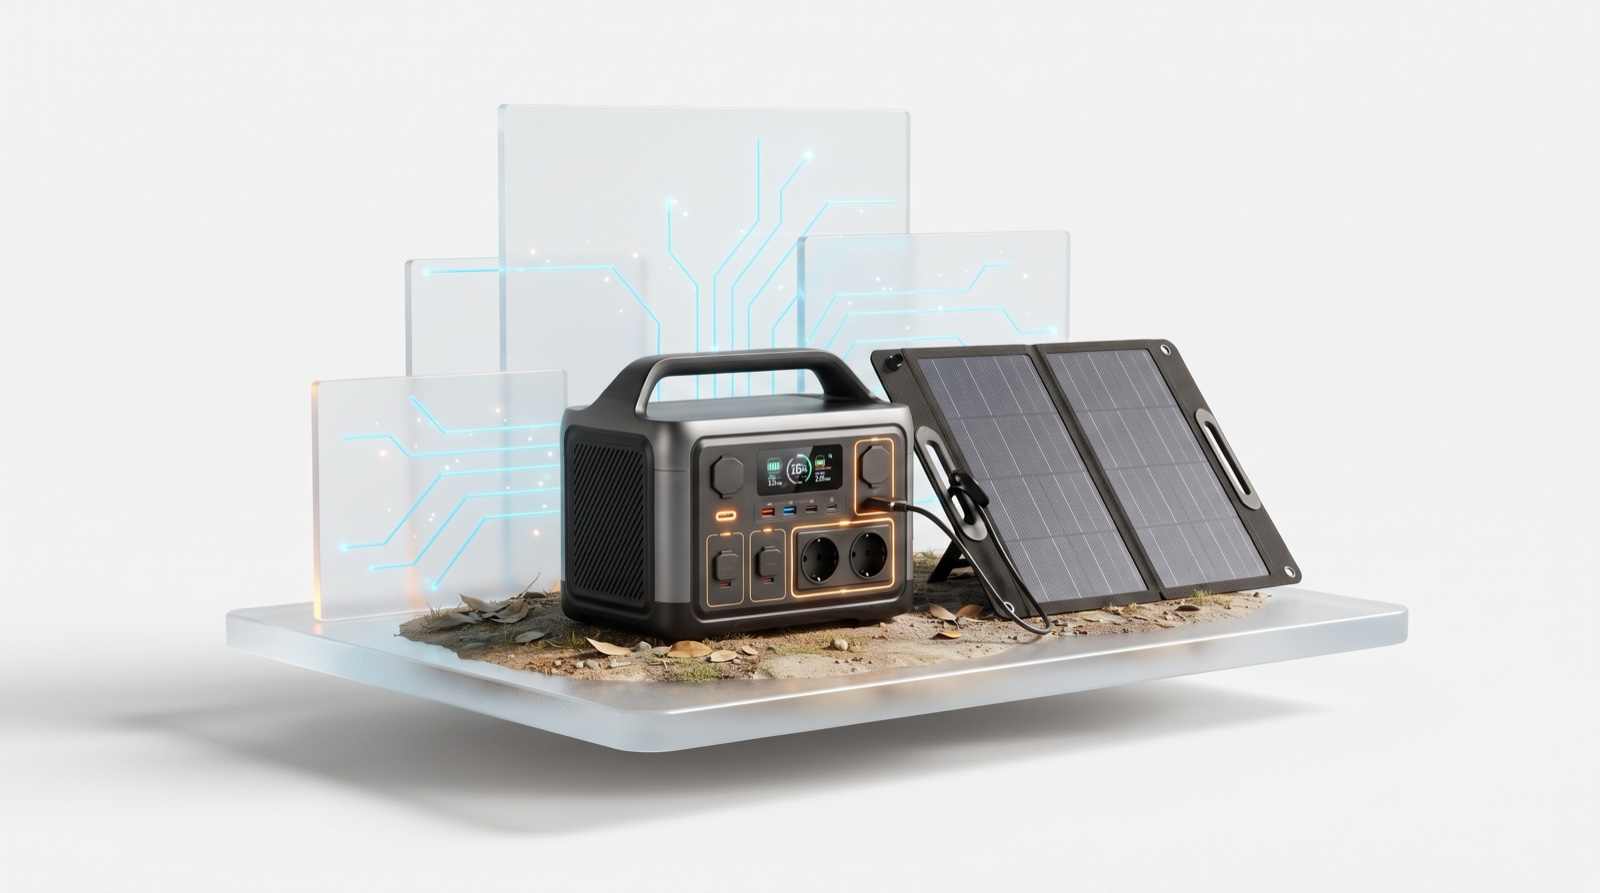
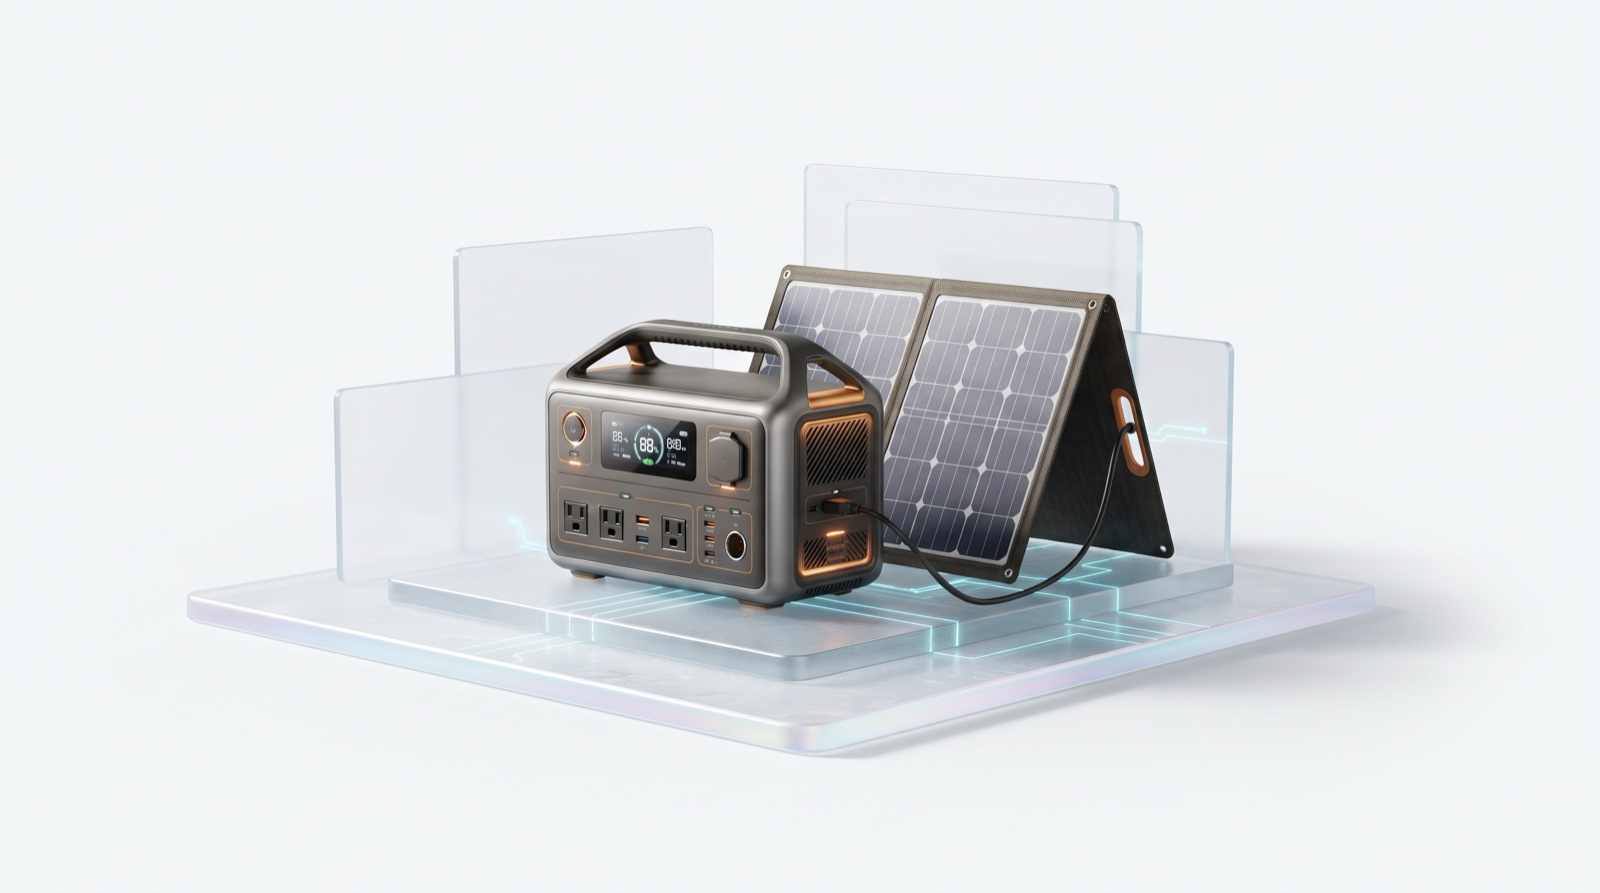
görseller: hesaplayıcı render'ı + Taşınabilir Güç tile doğru varyant
- CalculatorTeaser media: /images/v2/calc-2.jpg → akıllı ev + izleme panoları
  + teal enerji hattı render'ı (calc-home.png, şeffaf); çerçeve/kutu kaldırıldı,
  drop-shadow ile çerçevesiz float eder. 'Enerjini izle/hesapla' mesajını verir.
- kit-hero.jpeg: yanlış varyant (toprak-patch'li, istasyon sola bakan) doğru
  temiz varyantla değişti (ortada istasyon, arkada dik panel, teal pedestal).

diff --git a/components/marketing/CalculatorTeaser.tsx b/components/marketing/CalculatorTeaser.tsx
@@ -31,12 +31,14 @@ export async function CalculatorTeaser() {
         </div>
 
         <div className={styles.media}>
+          {/* Akıllı ev + izleme panoları render'ı (şeffaf PNG, teal enerji
+              hattı) — çerçevesiz float eder. */}
           <Image
-            src="/images/v2/calc-2.jpg"
+            src="/images/v2/calc-home.png"
             alt=""
-            width={720}
-            height={560}
-            sizes="(max-width: 900px) 92vw, 46vw"
+            width={880}
+            height={491}
+            sizes="(max-width: 900px) 94vw, 48vw"
             className={styles.img}
           />
         </div>

diff --git a/components/marketing/CalculatorTeaser.module.scss b/components/marketing/CalculatorTeaser.module.scss
@@ -58,11 +58,11 @@
   position: relative;
 }
 
+/* Şeffaf render — çerçeve/kutu yok, yumuşak drop-shadow ile float eder.
+   Kartların yayıldığı geniş kompozisyon için media alanından biraz taşabilir. */
 .img {
   width: 100%;
   height: auto;
-  border-radius: var(--r-xl);
-  box-shadow: var(--shadow-card-light);
-  object-fit: cover;
+  filter: drop-shadow(0 26px 40px rgba(16, 42, 67, 0.22));
 }
 

diff --git a/public/images/v2/CREDITS.md b/public/images/v2/CREDITS.md
@@ -15,6 +15,10 @@
 | cta.jpg              | photo-1674168481499-983f0968a68f (1lsoCjbLm3I) | navy dusk PV close-up                                                                                                                                 |
 | camp.jpg             | photo-1533873984035-25970ab07461               | tents in misty golden-hour field — SPARE (replaced by camp-hero.jpeg)                                                                                 |
 
+calc-home.jpeg/png is NOT Unsplash: client-provided transparent render (Google Flow, 2026-07-11) —
+isometric smart eco-home with PV roof + battery + floating monitoring dashboards + teal energy lines;
+the CalculatorTeaser (Home.calc) media, floats frameless (drop-shadow) on the light section.
+
 camp/kit-hero.jpeg is NOT Unsplash: client-provided glass-stage render (Google Flow, 2026-07-11) —
 power station + foldable panel + teal energy line; the "Taşınabilir Güç" category TILE image on /urunler
 (white bg → mix-blend-mode: multiply so it blends onto the lit-stage like the other category renders).
